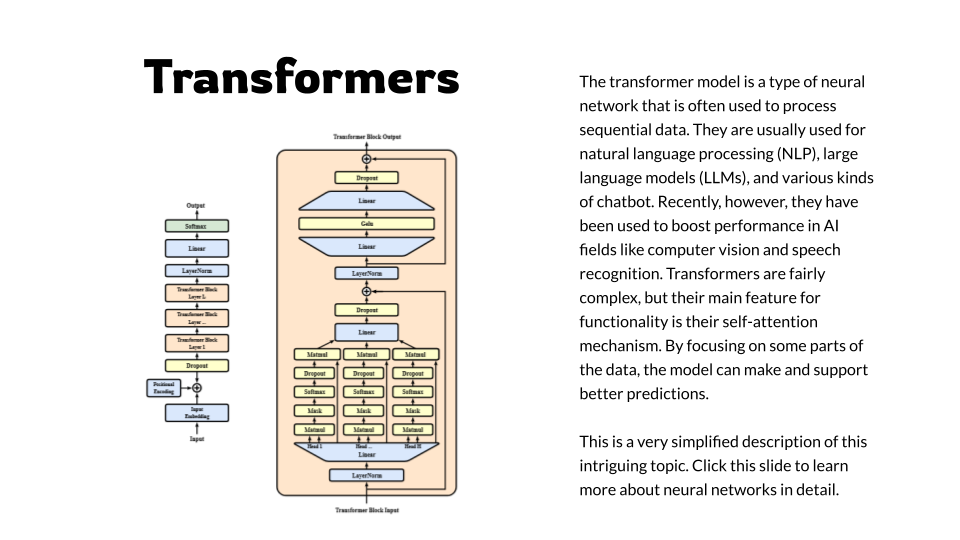
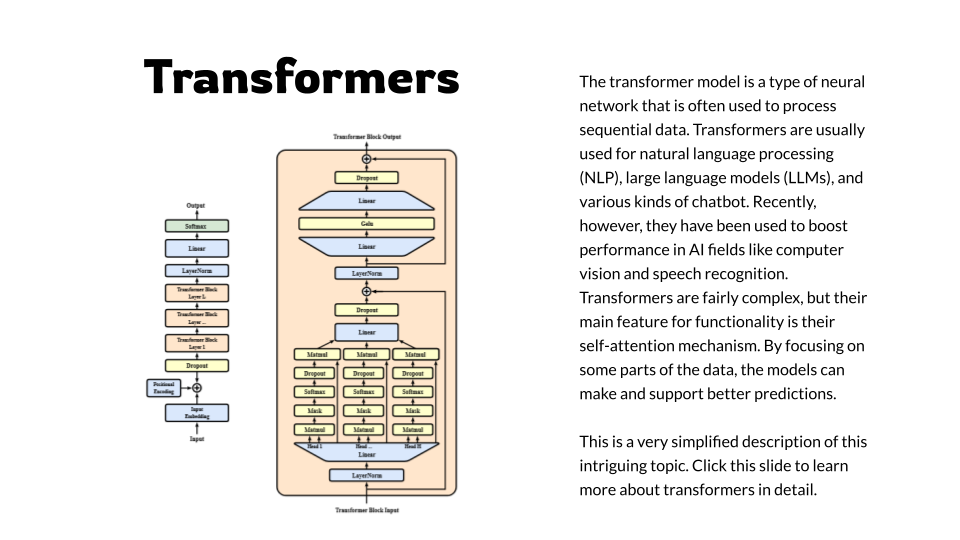
Carousel
- fixed transformer image text
- implemented classification/regression image

Changed region(s): [[0.5938, 0.2074, 0.9062, 0.7407], [0.6875, 0.8889, 0.875, 0.9185]]

diff --git a/explore.html b/explore.html
@@ -61,6 +61,9 @@
                 <div class="carousel-item">
                     <a href="articles/explore/transformers.html"><img src="img/carousel-tr.png" class="d-block w-100" alt="Transformers"></a>
                 </div>
+                <div class="carousel-item">
+                    <a href="articles/explore/class-vs-reg.html"><img src="img/carousel-cr.png" class="d-block w-100" alt="Classification & Regression"></a>
+                </div>
             </div>
             <button class="carousel-control-prev" type="button" data-bs-target="#carouselExampleAutoplaying" data-bs-slide="prev">
                 <span class="carousel-control-prev-icon" aria-hidden="true"></span>
